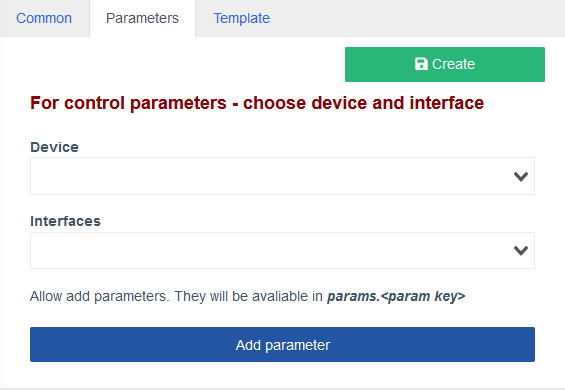
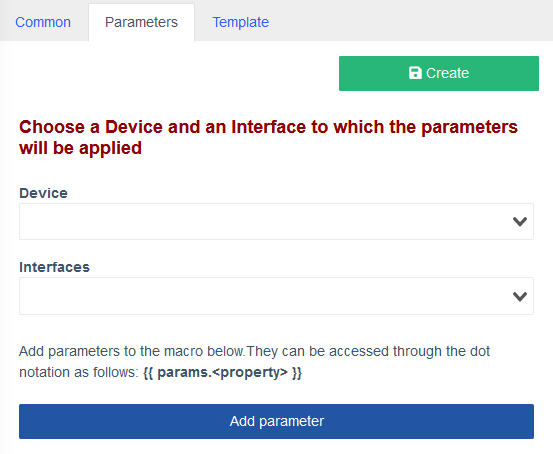
updates to Macros page

diff --git a/en/docs/components/macros.md b/en/docs/components/macros.md
@@ -4,122 +4,138 @@
     
     **Macros** is a component delivered separately, which allows the user to enhance System's functions by executing custom CLI commands on their devices, utilizing a simple graphical interface, i.e. viewing logs, snooping or even VLAN management on specified ports.
 
+!!! warning "Attention"
+    Creation and macro usage require specific **Role Permissions** settings.
+
+    They can be found in **Users management** > **Roles menu** > **Component: Macros**.
+
+    Pick and choose different combinations for different **User Roles** for additional security.
+
+    ![](../assets/macros/macros_role_permissions_settings.png)
+
+!!! danger "Warning"
+    Macros only work on Devices that support `multi_console_command`, see [more](https://github.com/meklis/switcher-core/blob/master/docs/DEVICES.md).
+
 ## Macros menu
 
-#### Common tab
+| Name    | Description                          |
+| ----------- | ------------------------------------ |
+| **Common**        | Here it's name, users and device models which are allowed to run it and visibility areas are specified. The latter allows greater customization and interface decluttering by hiding the macros that are not applicable to selected   |
+| **Parameters**      | This is the body of the macro. In the **Device** field, the device on which the macro is run is specified and **Variables** are loaded from cache as a JSON structure for ease of access. With **Interfaces** drop-down you can select a specific interface on which the should be executed, after which an additional property `iface` is loaded. It contains information about this interface. **Add parameter** button creates a new entry where the `{{params}}` object properties can be specified, which can be accessed by the macro (see **Template** section).  |
+| **Template**    | Templates are built with [**Twig**](https://twig.symfony.com/) template engine, therefore it is possible to include variables in the commands, create and assign custom variables, as well as branching and text permutations, inside the template. See [Twig Documentation](https://twig.symfony.com/doc/3.x/templates.html) for reference.|
 
-> Here it's name, users and device models which are allowed to run it and visibility areas are specified. The latter allows greater customization and interface decluttering by hiding the macros that are not applicable to selected `Device`/`Port`/`ONU`.
 
-#### Parameters tab
 
-> This is the body of the macro.
->
-> In the `Device` field, the device on which the macro is run is specified and `Variables` are loaded from cache as a JSON structure for ease of access. 
-
-> With `Interfaces` drop-down you can select a specific interface on which the should be executed, after which an additional property `iface` is loaded. It contains information about this interface. 
-
-> `Add parameter` button creates a new entry where the `{{params}}` object properties can be specified, which can be accessed by the macro (see **Template** section).
-
-#### Template tab
-
-> Templates are built with [**Twig**](https://twig.symfony.com/) template engine, therefore it is possible to include variables in the commands, create and assign custom variables, as well as branching and text permutations, inside the template. 
-
-> See [Twig Documentation](https://twig.symfony.com/doc/3.x/templates.html) for reference.
-
-## Workflow
+## Creating a basic macro
 
 Here we will go through the macro creation process step-by-step.
 
-!!! warning "" 
-    
-    The specific `Roles` and Device `Models` will vary depending on your setup.
-    
-!!! note ""    
+1. Use the **Configuration** drop-down menu in the left-side drawer to find the **Macros** menu. 
+![](../assets/macros/macros_sidebar.png)
 
-    Use the **Configuration** drop-down menu in the left-side drawer to find the **Macros** menu.
-    ![](../assets/macros/macros_sidebar.png){ align=left }
-    
-!!! tip ""
+2. Macros screen opens. Press the **Add new** button to create a new one.
+![](../assets/macros/macros_main_screen.png)
 
-    Press the **Add** button in the upper-left corner of the **Macros** screen to create a new one.
+    **Add New Macro** screen opens.
 
-#### Common
-
+3. Fill out the **Common** tab
 ![](../assets/macros/macros_add_new_macros_common.png)
 
-!!! info
+    !!! info
+        - Choose a **Name** that reflects the purpose of your macro from the first glance.
+        - **Description** allows you to describe features or direct it's user.
+        - In **Roles** drop-down you can select which user roles are permitted to execute this macro.
+        - **Models** field allows you to select specific devices on which the macro can be run.
+        - **Display for** allows you to customize where exactly this macro can be run, i.e. on a whole `Device` or only on a `Port` or a `ONU`.
+        - **Display output** defines whether you want to get feedback from all commands executed by the macro, just the last one or no output at all.
+    ??? example
+        ![](../assets/macros/macros_add_new_macros_common_filled_out.png)
+
+4. Parameters
+
+    ![](../assets/macros/macros_add_new_macros_parameters.png)
+    !!! info 
+        
+        - **Device** drop-down allows you to select a device, on which this macro will be run and load it's **Parameters**. 
+        - **Interfaces** loads an additional parameter `iface`, which stores this port's description.
+        
+        Selecting a **Device** at this stage is optional, you can press the **Add parameter** button right away.
+
+    ??? example 
+        ![](../assets/macros/macros_add_new_macros_parameters_filledout.png)
+
+5. Press the **Add parameter** button. New **Parameter** card appears. Fill out the required fields in the **Parameter** card.
+    ![](../assets/macros/macros_add_new_macros_parameter_card_empty.png){align = right}
+
+    !!! info
+
+        -   **Property** is the `{{params}}` object property name, used to access its value in the **Template**, using `{{params.property}}`
+        -   **Property display name** is a short description for your propery, displayed in the macro execution pop-up
+        -   **Required** checkbox allows you to specify a **Parameter** which has to be selected during **Macro** execution
+        -   To help you choose the right **Parameter type** see [**Parameter type options**](./macros_paramater_types_options.md)
+        -   **Visibility condition** field defines whether a macro shown, i.e. `!iface` hides it from device's `Interface` panel 
+
+    ??? example
+        
+        ![](../assets/macros/macros_add_new_macros_parameter_card_filled_out.png)
+
+    !!! tip 
+        
+        ![](../assets/macros/macros_command_card_draganddrop_button.png) button allows drag-and-drop reordering of the **Parameters**
+
+6. Select a **Device** and an **Interface** in the **Template** tab.
+    ![](../assets/macros/macros_add_new_macros_template_tab_empty.png)
+
+    !!! info
+        This step is optional and is required to get the cached variables from the device for ease of access.
+
+        A new **Parameters form** block will appear, which shows the **Parameters** you've created in the *previous* step.
+
+    ??? example
+        ![](../assets/macros/macros_add_new_macros_template_tab_device_selected.png)
+
+7. Create a **Twig**-style **Template** for your macro.
+    ![](../assets/macros/macros_template_block_emtpy.png)
+
+    !!! info
+        You can create a **Template** from scratch or use one of the examples below.
+        
+        For syntax refer to [Twig Documentation for Designers](https://twig.symfony.com/doc/3.x/templates.html).
+
+        After you've filled out the **Chosen template** block **Live result** shows the result of your **Template** compilation and the exact command that will be executed on a selected **Device**.
+    ??? example
+        ![](../assets/macros/macros_add_new_macros_template_tab_filled_out.png)
+
+        ```
+        show {{params.show_type}}
+        ```
     
-    - Choose a **Name** that reflects the purpose of your macro from the first glance.
-    - **Description** allows you to describe features or direct it's user.
-    - In **Roles** drop-down you can select which user roles are permitted to execute this macro.
-    - **Models** field allows you to select specific devices on which the macro can be run.
-    - **Display for** allows you to customize where exactly this macro can be run, i.e. on a whole `Device` or a only on a `Port` or a `ONU`.
-    - **Display output** defines whether you want to get feedback from all commands executed by the macro, just the last one or no output at all.
+8. Press **Create** button
 
-!!! example 
-    
-    ![](../assets/macros/macros_add_new_macros_common_filled_out.png)
+    !!! tip
+        Your macro will apear in the **Configuration** > **Macros** list, along with the **Edit**, **Delete**, **Clone** and **Import** buttons.
+        ![](../assets/macros/macros_macro_in_the_list.png)
 
-#### **Parameters** tab
+## Macro usage
 
-![](../assets/macros/macros_add_new_macros_parameters.png)
-
-!!! info 
-    
-    - **Device** drop-down allows you to select a device, on which this macro will be run and load it's **Parameters**. - **Interfaces** loads an additional parameter `iface`, which stores this port's description.
-    
-    After you select the desired device, you can press the **Add parameter** button.
-
-#### Empty parameter card
-
-![](../assets/macros/macros_add_new_macros_command_card.png)
-
-!!! info
-
-    -   **Property** is the `{{params}}` object property name, used to access its value in the **Template**, using `{{params.property}}`
-    -   **Property display name** is a short description for your propery, displayed in the macro execution pop-up
-    -   **Required** checkbox allows you to specify a **Parameter** which has to be selected during **Macro** execution
-    -   From **Parameter type** you can select how the parameters for this command are specified:
-        -   **Choose from predefined** allows you to manually specify a list of parameters to be selected from during macro execution
-        -   **Choose from variables** is used to select a parameter from those provided by the select device, i.e. `{{user.name}}`
-        -   **Field for input (with default value)** allows the user to manually enter the required parameters during macro execution
-
-    -   **Visible condition** field defines whether a macro shown, i.e. `!iface` hides it from device's `Interface` panel 
-
-!!! example 
-    
-    ![](../assets/macros/macros_add_new_macros_command_card_filled_out.png)
-
-!!! tip 
-    
-    ![](../assets/macros/macros_command_card_draganddrop_button.png) button allows drag-and-drop reordering of the **Parameters**
-
-#### Template tab
-
-![](../assets/macros/macros_add_new_macros_template_tab_filled_out.png)
-
-// add template tab description
-
-#### Press Create button
-
-> After this step, the macro is ready. It can be found in the **Macros** list, along with the **Edit**, **Delete** and **Clone** buttons.
-
-![](../assets/macros/macros_macro_in_the_list.png)
-
-# Macro usage
-
-> To use the macro created in the **Workflow** section, navigate to the **Device**/**Port** you specified for it and select the **Macros** tab.
+To use the macro created in the **Creating a basic macro** section, navigate to the **Device**/**Port** you specified for it and select the **Macros** tab.
 
 ![](../assets/macros/macros_device_macros_tab.png)
 
-> When you click **Execute** button, a new dialogue will pop up.
+When you click **Execute** button, a new dialogue will pop up.
 
 ![](../assets/macros/macros_device_running_macro.png)
 
-> Here are the **Displayed name** and values we specified earlier in the **Parameters** tab.
+Here are the **Displayed name** and values we specified earlier in the **Parameters** tab.
 
 !!! tip 
     
     **Preview** button allows you to see what the command will look like when it's executed on selected device
 
-> By pressing **Execute** button, the macro is run and the result is displayed in a new pop-up, if the **Display output** was set to anything other than **Not display**.
+By pressing **Execute** button, the macro is run and the result is displayed in a new pop-up, if the **Display output** was set to anything other than **Not display**.
+
+
+??? info "Changelog"
+    | Release №   | Changes                              |
+    | ----------- | ------------------------------------ |
+    | `0.21.004`  | Added Macros documentation           |

diff --git a/en/docs/components/macros_paramater_types_options.md b/en/docs/components/macros_paramater_types_options.md
@@ -1,0 +1,3 @@
+-   **Predefined values** allows you to manually specify a list of parameters to be selected from during macro execution
+-   **Device variables** is used to select a parameter from those provided by the selected device, i.e. `{{user.name}}`
+-   **Input field (with value source)** allows the user to manually enter the required parameters during macro execution, and/or select one from those provided by the selected **Device**
